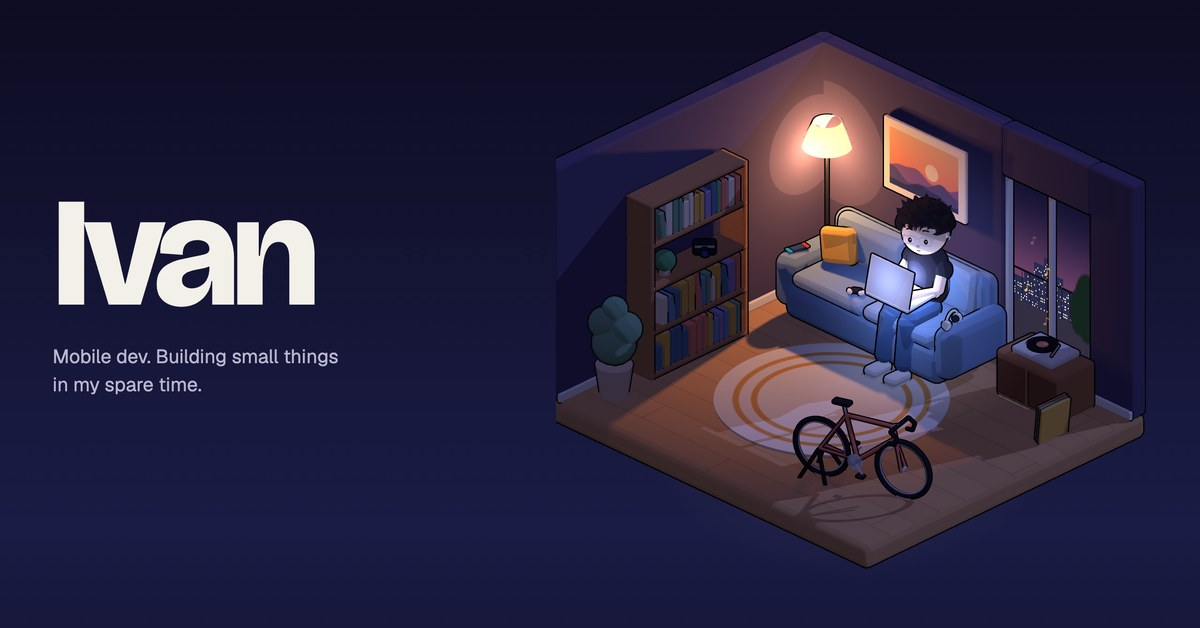
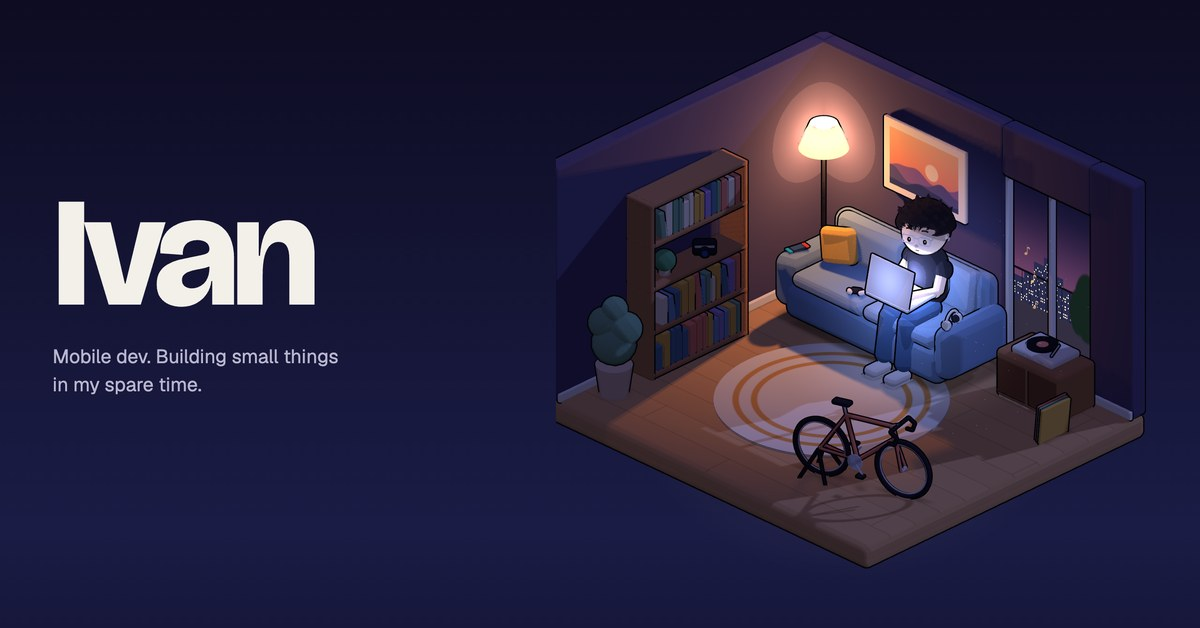
Ground the room: contact shadows, a sun shadow fitted to the room, a lamp between its walls
- Contact shadows (three.js's webgl_shadow_contact): the room seen from just above
  the rug, its depth darkened and blurred onto the floor, drawn once and again only
  when what stands on the floor moves. Furniture now sits on the floor.
- The sun's shadow frustum hugs the room's bounding sphere instead of a fixed
  10x10 box, so its texels land on the room, and its edges blur over 3 texels.
- The lamp stands as far from each wall as from the other, its bulb inside the
  shade, so its light on the two walls is one shape mirrored across the corner.
- Vendors three.js r170's two blur shaders the contact pass needs; the share
  cards and fallbacks are re-rendered.

Claude-Session: https://claude.ai/code/session_016RwXvtRXve6vXwd5bd4tyt

diff --git a/public/scene.js b/public/scene.js
@@ -3,6 +3,8 @@
 // and a handheld, a bookshelf with a camera, a print above the sofa, his road bike. Night swaps the sun for the lamp, the laptop and the city.
 import * as THREE from "three";
 import { RoundedBoxGeometry } from "three/addons/geometries/RoundedBoxGeometry.js";
+import { HorizontalBlurShader } from "three/addons/shaders/HorizontalBlurShader.js";
+import { VerticalBlurShader } from "three/addons/shaders/VerticalBlurShader.js";
 import { motion } from "./motion.js";
 import { onTrack } from "./nowplaying.js";
 
@@ -459,13 +461,17 @@ function build(renderer) {
   put(new THREE.IcosahedronGeometry(0.12, 2), clay(C.leaf), [0.04, 1.27, 0.38], shelf);
   put(cyl(0.075, 0.06, 0.13), clay(C.pot), [0.04, 1.17, 0.38], shelf);
 
-  // The floor lamp, warm at night.
-  put(cyl(0.15, 0.17, 0.04), clay(C.ink, 0.5), [-2.0, 0.02, -1.75]);
-  put(cyl(0.018, 0.018, 1.7, 12), clay(C.ink, 0.5), [-2.0, 0.87, -1.75]);
+  // The floor lamp, warm at night. It stands as far from each wall as from the other, so the
+  // light it throws on the two is one shape mirrored across the corner.
+  const LAMP_FROM_WALLS = 0.2;
+  const lampX = sideX + T / 2 + LAMP_FROM_WALLS, lampZ = backZ + T / 2 + LAMP_FROM_WALLS;
+  put(cyl(0.15, 0.17, 0.04), clay(C.ink, 0.5), [lampX, 0.02, lampZ]);
+  put(cyl(0.018, 0.018, 1.7, 12), clay(C.ink, 0.5), [lampX, 0.87, lampZ]);
   const shadeMat = toonMat({ color: "#f7e6c6", roughness: 0.9, side: THREE.DoubleSide, emissive: new THREE.Color("#ffb560"), emissiveIntensity: 0 });
-  put(new THREE.CylinderGeometry(0.15, 0.27, 0.3, 40, 1, true), shadeMat, [-2.0, 1.82, -1.75]);
+  put(new THREE.CylinderGeometry(0.15, 0.27, 0.3, 40, 1, true), shadeMat, [lampX, 1.82, lampZ]);
   const lamp = new THREE.PointLight("#ffb56b", 0, 5.5, 1.5);
-  lamp.position.set(-2.0, 1.65, -1.65);
+  // The bulb sits inside the shade, which throws its light up and down, as a shade does.
+  lamp.position.set(lampX, 1.78, lampZ);
   lamp.castShadow = true;
   lamp.shadow.mapSize.set(512, 512);
   lamp.shadow.radius = 6;
@@ -526,6 +532,70 @@ function build(renderer) {
   );
   room.add(dust);
 
+  // Contact shadows, so what stands on the floor sits on it: the room seen from just above the
+  // rug, looking up, its depth darkened and blurred onto the floor (three.js's
+  // webgl_shadow_contact example). Only what stands within GROUNDED of the floor darkens it.
+  const CONTACT_PX = 1024, GROUNDED = 0.45, RUG_TOP = 0.026;
+  const contactTarget = new THREE.WebGLRenderTarget(CONTACT_PX, CONTACT_PX);
+  const contactBlurTarget = new THREE.WebGLRenderTarget(CONTACT_PX, CONTACT_PX);
+  contactTarget.texture.generateMipmaps = contactBlurTarget.texture.generateMipmaps = false;
+  const contact = new THREE.Group();
+  contact.position.y = RUG_TOP;
+  room.add(contact);
+  const contactPlaneGeo = new THREE.PlaneGeometry(W, D).rotateX(Math.PI / 2);
+  const contactPlane = new THREE.Mesh(contactPlaneGeo, new THREE.MeshBasicMaterial({ map: contactTarget.texture, transparent: true, depthWrite: false, opacity: 0.5 }));
+  contactPlane.renderOrder = 1;
+  contactPlane.scale.y = -1;
+  contact.add(contactPlane);
+  const blurPlane = new THREE.Mesh(contactPlaneGeo);
+  blurPlane.visible = false;
+  contact.add(blurPlane);
+  const contactCamera = new THREE.OrthographicCamera(-W / 2, W / 2, D / 2, -D / 2, 0, GROUNDED);
+  contactCamera.rotation.x = Math.PI / 2;
+  contact.add(contactCamera);
+  const contactDepth = new THREE.MeshDepthMaterial({ depthTest: false, depthWrite: false });
+  contactDepth.onBeforeCompile = (shader) => {
+    shader.fragmentShader = shader.fragmentShader.replace(
+      "gl_FragColor = vec4( vec3( 1.0 - fragCoordZ ), opacity );",
+      "gl_FragColor = vec4( vec3( 0.0 ), 1.0 - fragCoordZ );"
+    );
+  };
+  const blurH = new THREE.ShaderMaterial({ ...HorizontalBlurShader, uniforms: THREE.UniformsUtils.clone(HorizontalBlurShader.uniforms), depthTest: false });
+  const blurV = new THREE.ShaderMaterial({ ...VerticalBlurShader, uniforms: THREE.UniformsUtils.clone(VerticalBlurShader.uniforms), depthTest: false });
+  function blurContact(texels) {
+    blurPlane.visible = true;
+    blurPlane.material = blurH;
+    blurH.uniforms.tDiffuse.value = contactTarget.texture;
+    blurH.uniforms.h.value = texels / CONTACT_PX;
+    renderer.setRenderTarget(contactBlurTarget);
+    renderer.render(blurPlane, contactCamera);
+    blurPlane.material = blurV;
+    blurV.uniforms.tDiffuse.value = contactBlurTarget.texture;
+    blurV.uniforms.v.value = texels / CONTACT_PX;
+    renderer.setRenderTarget(contactTarget);
+    renderer.render(blurPlane, contactCamera);
+    blurPlane.visible = false;
+  }
+  // The room is still but for its small loops, so the shadows are drawn once, and again only
+  // when what stands on the floor moves.
+  let contactStale = true;
+  function drawContact() {
+    const clearAlpha = renderer.getClearAlpha();
+    contactPlane.visible = dust.visible = false;
+    scene.overrideMaterial = contactDepth;
+    renderer.setClearAlpha(0);
+    renderer.setRenderTarget(contactTarget);
+    renderer.render(scene, contactCamera);
+    scene.overrideMaterial = null;
+    // The example's two passes: the second, at 0.4 of the first, clears the first's artifacts.
+    blurContact(3);
+    blurContact(1.2);
+    renderer.setRenderTarget(null);
+    renderer.setClearAlpha(clearAlpha);
+    contactPlane.visible = dust.visible = true;
+    contactStale = false;
+  }
+
   // Light.
   const hemi = new THREE.HemisphereLight("#fff3e3", "#d2aa82", 0.9);
   scene.add(hemi);
@@ -535,10 +605,24 @@ function build(renderer) {
   scene.add(sun.target);
   sun.castShadow = true;
   sun.shadow.mapSize.set(2048, 2048);
-  Object.assign(sun.shadow.camera, { left: -5, right: 5, top: 5, bottom: -5, near: 0.5, far: 20 });
+  // Edges blurred over a few texels; three.js warns high values band, so the map stays large.
+  sun.shadow.radius = 3;
   sun.shadow.bias = -0.0005;
   sun.shadow.normalBias = 0.02;
   scene.add(sun);
+  // The shadow's frustum hugs the room's bounding sphere, so every texel lands on the room
+  // however far the room leans toward the pointer.
+  sun.updateMatrixWorld();
+  sun.target.updateMatrixWorld();
+  sun.shadow.updateMatrices(sun);
+  const roomSphere = new THREE.Box3().setFromObject(room).getBoundingSphere(new THREE.Sphere());
+  const roomInLight = roomSphere.center.clone().applyMatrix4(sun.shadow.camera.matrixWorldInverse);
+  const reach = roomSphere.radius;
+  Object.assign(sun.shadow.camera, {
+    left: roomInLight.x - reach, right: roomInLight.x + reach, top: roomInLight.y + reach, bottom: roomInLight.y - reach,
+    near: Math.max(0.1, -roomInLight.z - reach), far: -roomInLight.z + reach,
+  });
+  sun.shadow.camera.updateProjectionMatrix();
   const fill = new THREE.DirectionalLight("#cfd9ff", 0.5);
   fill.position.set(6, 5, 6);
   scene.add(fill);
@@ -734,6 +818,7 @@ function build(renderer) {
       for (const n of notes) n.s.material.opacity = 0;
     }
     react(now, calm);
+    if (contactStale) drawContact();
     renderer.render(scene, camera);
     placeLeader();
     if (!shown) { shown = true; canvas.classList.add("ready"); }

diff --git a/public/index.html b/public/index.html
@@ -31,6 +31,8 @@
 </script>
 <link rel="modulepreload" href="/vendor/three/three.module.min.js">
 <link rel="modulepreload" href="/vendor/three/addons/geometries/RoundedBoxGeometry.js">
+<link rel="modulepreload" href="/vendor/three/addons/shaders/HorizontalBlurShader.js">
+<link rel="modulepreload" href="/vendor/three/addons/shaders/VerticalBlurShader.js">
 <link rel="modulepreload" href="/scene.js">
 <link rel="modulepreload" href="/motion.js">
 <link rel="modulepreload" href="/nowplaying.js">
